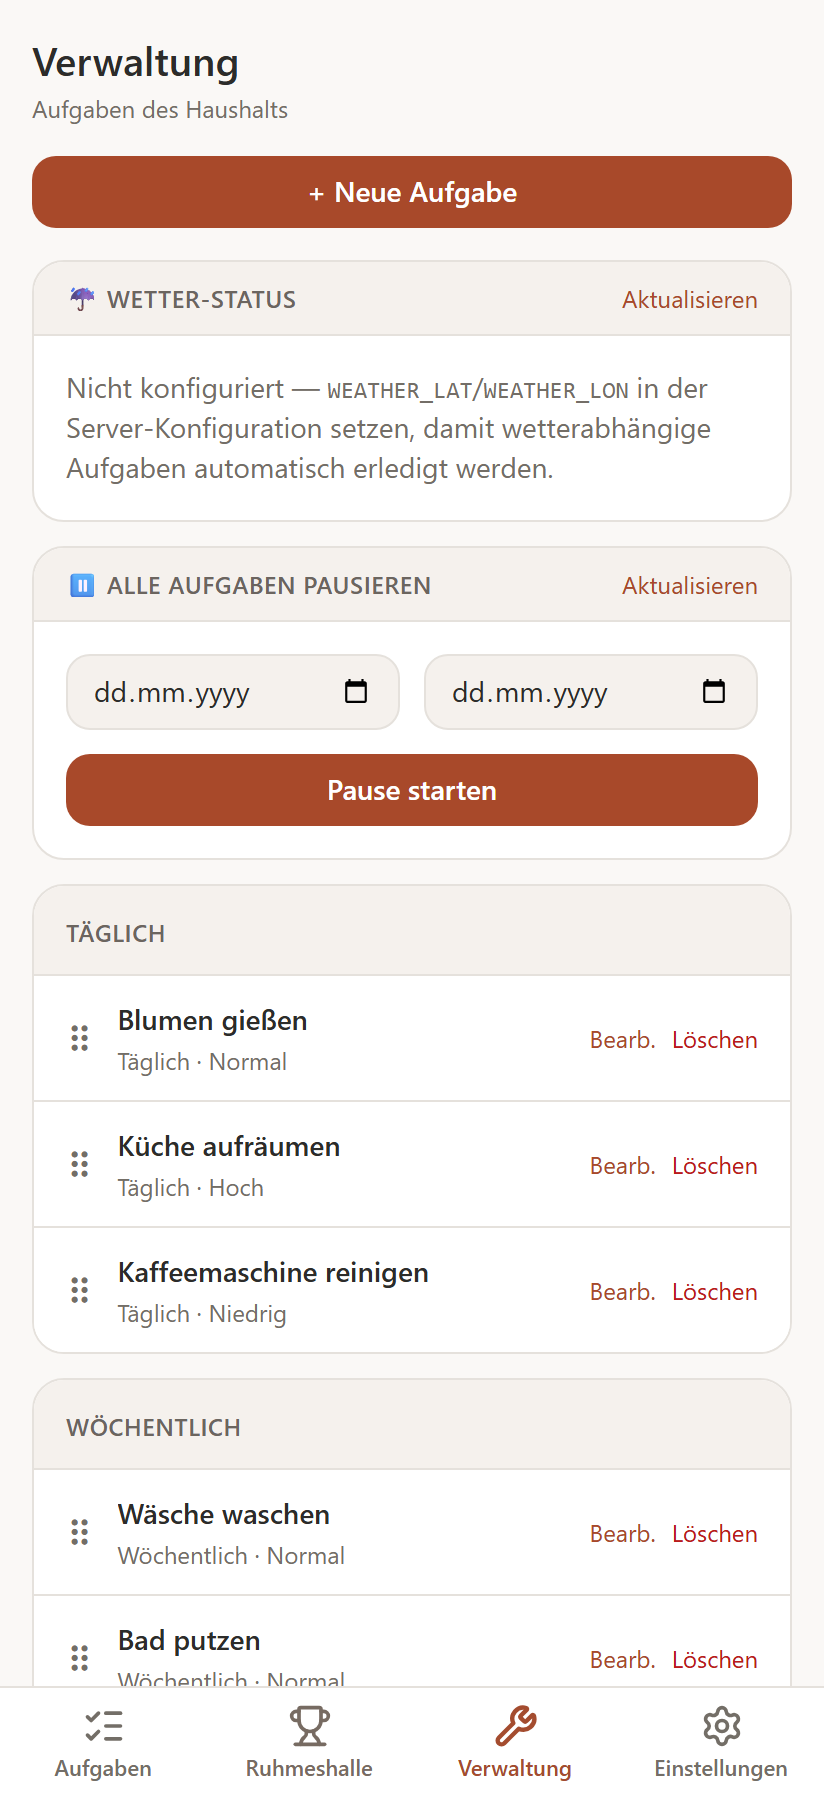
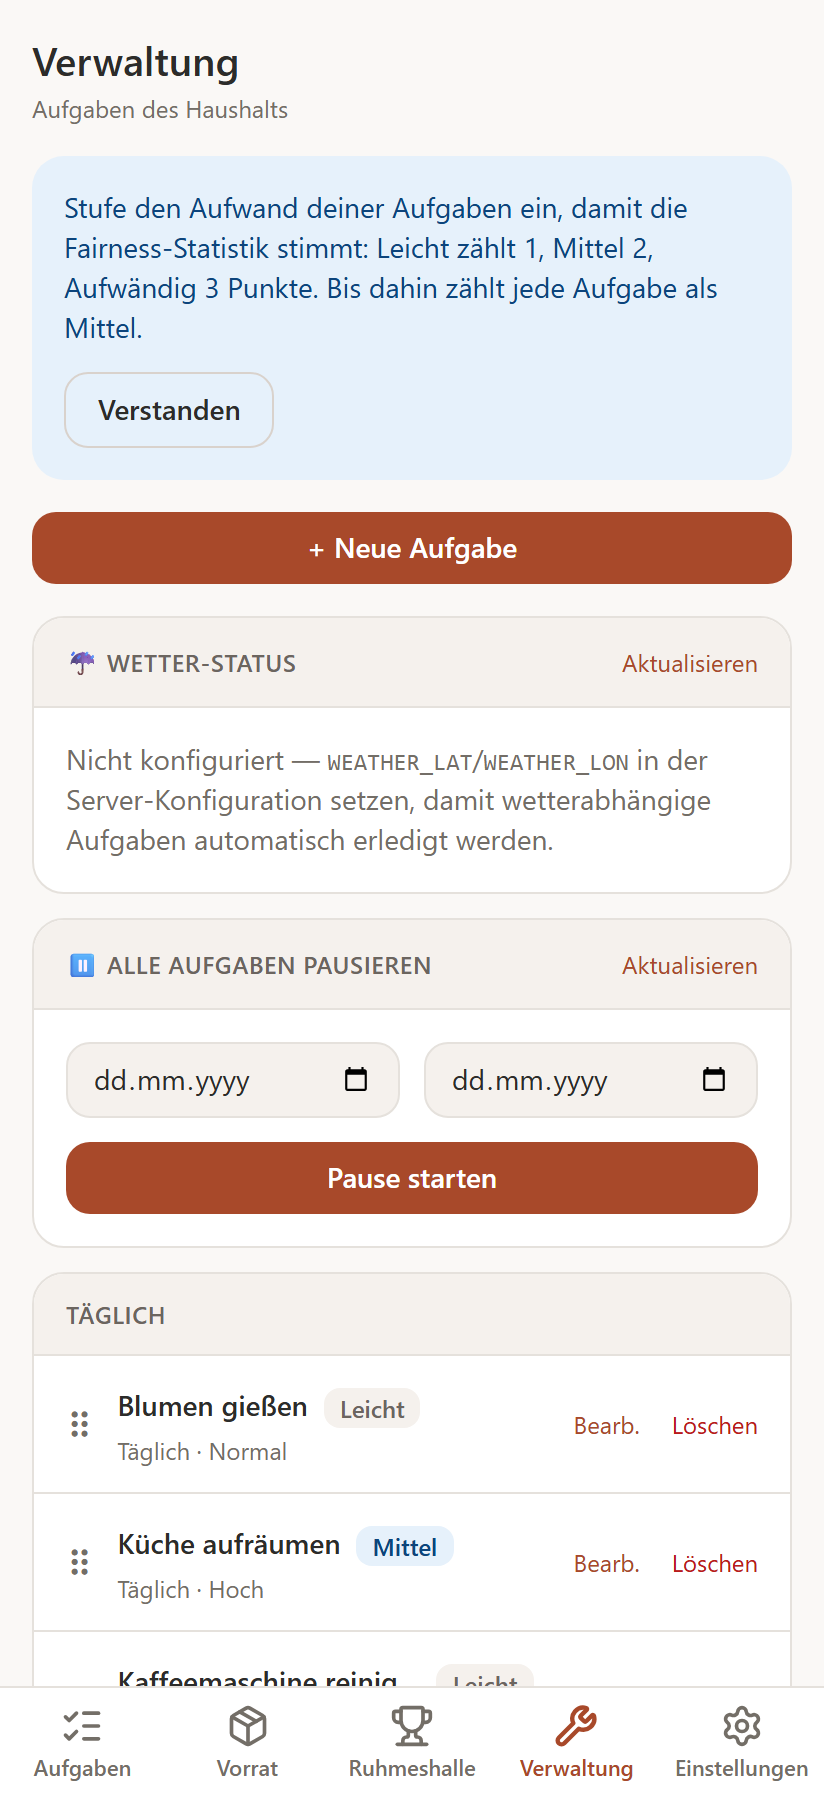
chore(screenshots): PWA-Screenshots neu aufgenommen, Vorrat und Einstellungen ergänzt
- Seed: Vorrat (3 Lagerorte), Aufwand je Aufgabe, Dienst-Eintrag,
  Fairness-Verlauf der letzten Wochen
- Aufnahme: zusätzlich storage.png und settings.png; Ruhmeshalle direkt
  geladen, damit die Startseite nicht mehr ins Bild ragt
- Konfiguration: deutsche Datumsfelder, Wetter- und Kalender-Abrufe aus
  einer lokalen .env neutralisiert, längeres Start-Timeout
- Manifest: Vorrat und Einstellungen als Install-Screenshots eingetragen

diff --git a/backend/scripts/screenshot-seed.js b/backend/scripts/screenshot-seed.js
@@ -18,6 +18,9 @@ async function main() {
   const now = new Date()
   const today = ymd(now)
   const inTwoDays = ymd(new Date(now.getTime() + 2 * 86400000))
+  // Beide sind schon länger dabei — sonst blendet die Fairness-Statistik sie
+  // als "erst seit Kurzem dabei" aus.
+  const joined = new Date(now.getTime() - 90 * 86400000)
 
   // Trophäen werden NICHT direkt gesetzt — der Scheduler (updateTrophyCache)
   // berechnet sie beim Start aus der TaskLog-Historie neu und würde gesetzte
@@ -31,6 +34,8 @@ async function main() {
       role: 'admin', // für den Verwaltungs-Screenshot
       approved: true,
       hasSeenSwipeTip: true,
+      createdAt: joined,
+      showFairness: true, // Fairness-Karte in der Ruhmeshalle
     },
   })
   const ben = await prisma.user.create({
@@ -41,25 +46,59 @@ async function main() {
       role: 'user',
       approved: true,
       hasSeenSwipeTip: true,
+      createdAt: joined,
     },
   })
 
+  // Zählweise nach Aufwand, wie in der Legende der Ruhmeshalle beschrieben.
+  await prisma.fairnessSettings.create({ data: { id: 'singleton', countMode: 'weighted' } })
+
   // Aufgaben in allen Typen; sortOrder bestimmt die Reihenfolge im Block.
   const daily = await Promise.all([
-    prisma.task.create({ data: { title: 'Blumen gießen', type: 'daily', priority: 'normal', sortOrder: 0 } }),
-    prisma.task.create({ data: { title: 'Küche aufräumen', type: 'daily', priority: 'high', sortOrder: 1 } }),
-    prisma.task.create({ data: { title: 'Kaffeemaschine reinigen', type: 'daily', priority: 'low', sortOrder: 2 } }),
+    prisma.task.create({ data: { title: 'Blumen gießen', type: 'daily', priority: 'normal', sortOrder: 0, difficulty: 1 } }),
+    prisma.task.create({ data: { title: 'Küche aufräumen', type: 'daily', priority: 'high', sortOrder: 1, difficulty: 2 } }),
+    prisma.task.create({ data: { title: 'Kaffeemaschine reinigen', type: 'daily', priority: 'low', sortOrder: 2, difficulty: 1 } }),
   ])
   const weekly = await Promise.all([
     prisma.task.create({ data: { title: 'Wäsche waschen', type: 'weekly', priority: 'normal', sortOrder: 0 } }),
-    prisma.task.create({ data: { title: 'Bad putzen', type: 'weekly', priority: 'normal', sortOrder: 1 } }),
-    prisma.task.create({ data: { title: 'Müll rausbringen', type: 'weekly', priority: 'normal', sortOrder: 2 } }),
+    prisma.task.create({ data: { title: 'Bad putzen', type: 'weekly', priority: 'normal', sortOrder: 1, difficulty: 3 } }),
+    prisma.task.create({ data: { title: 'Müll rausbringen', type: 'weekly', priority: 'normal', sortOrder: 2, difficulty: 1 } }),
   ])
   await prisma.task.create({ data: { title: 'Fenster putzen', type: 'monthly', priority: 'normal', sortOrder: 0 } })
   // Abfallkalender-Termin (bevorstehend) — erscheint im Einmalig-Block.
   await prisma.task.create({
     data: { title: 'Papiertonne rausstellen', type: 'once', dueDate: inTwoDays, isAutoGenerated: true, isActive: true },
   })
+
+  // Dienstplan-Termin (Kennzeichen "Dienst" im Einmalig-Block).
+  await prisma.task.create({
+    data: { title: 'Hühner: Futter hochziehen', type: 'once', dueDate: today, isAutoGenerated: true, autoSource: 'duty', isActive: true },
+  })
+
+  // Vorrat: drei Lagerorte, ein paar Kategorien und Artikel. Einige liegen
+  // unter der Mindestmenge und füllen so die Einkaufsliste.
+  const storage = [
+    ['Keller', [
+      ['Tiefkühl', [['Fischstäbchen', 0, 'Packungen'], ['Lachs', 4, 'Packungen'], ['Kroketten', 2, 'Beutel'], ['Croissants', 1, 'Packungen'], ['Röstipommes', 0, 'Beutel']]],
+      ['Getränke', [['Apfelschorle', 0, 'Kästen'], ['Wasser', 3, 'Kästen']]],
+    ]],
+    ['Vorratsschrank', [
+      ['Konserven', [['Tomaten', 5, 'Dosen'], ['Mais', 2, 'Dosen']]],
+      ['Nudeln & Reis', [['Spaghetti', 3, 'Packungen'], ['Reis', 0, 'Packungen']]],
+    ]],
+    ['Kühlschrank', [
+      ['Milchprodukte', [['Milch', 0, 'Liter'], ['Butter', 2, 'Stück'], ['Joghurt', 4, 'Becher']]],
+    ]],
+  ]
+  for (const [li, [locName, cats]] of storage.entries()) {
+    const location = await prisma.storageLocation.create({ data: { name: locName, sortOrder: li } })
+    for (const [ci, [catName, items]] of cats.entries()) {
+      const category = await prisma.storageCategory.create({ data: { locationId: location.id, name: catName, sortOrder: ci } })
+      for (const [ii, [name, quantity, unit]] of items.entries()) {
+        await prisma.storageItem.create({ data: { name, quantity, unit, locationId: location.id, categoryId: category.id, sortOrder: ii } })
+      }
+    }
+  }
 
   // Ein paar heutige Erledigungen: füllt Statistik (heute/Woche/Monat),
   // Verlauf und gibt der Ruhmeshalle Inhalt. Erzeugt jeweils TaskCompletion
@@ -119,8 +158,13 @@ async function main() {
   await pastLogs(ben, 5, 2);   await pastLogs(anna, 5, 1)  // → Tag: Ben
   await pastLogs(anna, 10, 3); await pastLogs(ben, 10, 1)  // letzte Woche → Anna
   await pastLogs(anna, 40, 4); await pastLogs(ben, 40, 1)  // letzter Monat → Anna
+  // Füllt die Fairness-Statistik (letzte 30 Tage, Wochenbalken) mit einer
+  // halbwegs ausgewogenen Verteilung.
+  for (const [daysAgo, a, b] of [[8, 2, 2], [12, 3, 2], [15, 2, 3], [17, 2, 1], [20, 3, 2], [23, 1, 2], [26, 2, 2]]) {
+    await pastLogs(anna, daysAgo, a); await pastLogs(ben, daysAgo, b)
+  }
 
-  console.log('screenshot-seed: 2 Nutzer + Aufgaben + Erledigungen erstellt')
+  console.log('screenshot-seed: 2 Nutzer + Aufgaben + Vorrat + Erledigungen erstellt')
 }
 
 main()

diff --git a/frontend/e2e-screenshots/capture.spec.js b/frontend/e2e-screenshots/capture.spec.js
@@ -3,7 +3,7 @@ import path from 'path'
 import { fileURLToPath } from 'url'
 import { login } from '../e2e/helpers.js'
 
-// Nimmt die vier PWA-Install-Screenshots (manifest.screenshots) im neuen
+// Nimmt die sechs PWA-Install-Screenshots (manifest.screenshots) im neuen
 // Design auf und legt sie in public/screenshots ab. Kein Test im engeren Sinn,
 // sondern ein reproduzierbarer Aufnahme-Lauf — daher eigenes testDir +
 // eigene Config (playwright.screenshots.config.js), außerhalb des CI-E2E-Laufs.
@@ -33,17 +33,37 @@ test('Screenshots aufnehmen', async ({ page }) => {
   await expect(page.locator('[data-testid="nav-home"]')).toHaveAttribute('aria-current', 'page')
   await page.screenshot({ path: path.join(outDir, 'home.png') })
 
-  // 3) Ruhmeshalle
+  // 3) Vorrat
+  await page.locator('[data-testid="nav-storage"]').click()
+  await expect(page).toHaveURL('/storage')
+  await expect(page.getByRole('heading', { name: 'Vorrat' })).toBeVisible()
+  await expect(page.getByText('Fischstäbchen').first()).toBeVisible()
+  await page.screenshot({ path: path.join(outDir, 'storage.png') })
+  await page.locator('[data-testid="nav-home"]').click()
+  await expect(page.locator('[data-testid="nav-home"]')).toHaveAttribute('aria-current', 'page')
+
+  // 4) Ruhmeshalle
   await page.locator('[data-testid="nav-hall-of-fame"]').click()
   await expect(page.getByRole('heading', { name: 'Ruhmeshalle' })).toBeVisible()
   await expect(page.getByText('Anna').first()).toBeVisible()
   await expect(page.locator('[data-testid="nav-hall-of-fame"]')).toHaveAttribute('aria-current', 'page')
+  // Direkt laden statt nur wischen: nach dem Tab-Wechsel bleibt das Karussell
+  // sonst um einige Pixel versetzt stehen (linker Rand der Startseite im Bild).
+  await page.goto('/hall-of-fame')
+  await expect(page.getByRole('heading', { name: 'Ruhmeshalle' })).toBeVisible()
+  await expect(page.getByText('Anna').first()).toBeVisible()
   await page.waitForTimeout(400) // Carousel-Position settlen lassen
   await page.screenshot({ path: path.join(outDir, 'halloffame.png') })
 
-  // 4) Verwaltung (Anna ist Admin)
+  // 5) Verwaltung (Anna ist Admin)
   await page.locator('[data-testid="nav-admin"]').click()
   await expect(page).toHaveURL('/admin')
   await expect(page.getByRole('button', { name: '+ Neue Aufgabe' })).toBeVisible()
   await page.screenshot({ path: path.join(outDir, 'admin.png') })
+
+  // 6) Einstellungen
+  await page.locator('[data-testid="nav-settings"]').click()
+  await expect(page).toHaveURL('/settings')
+  await expect(page.getByRole('heading', { name: 'Einstellungen' })).toBeVisible()
+  await page.screenshot({ path: path.join(outDir, 'settings.png') })
 })

diff --git a/frontend/playwright.screenshots.config.js b/frontend/playwright.screenshots.config.js
@@ -16,6 +16,14 @@ const backendEnv = {
   NODE_ENV: 'test',
   FRONTEND_URL: 'http://localhost:4173',
   PORT: '3101',
+  // Werte aus einer lokalen backend/.env neutralisieren (dotenv überschreibt
+  // gesetzte Variablen nicht): keine Abrufe echter Kalender-/Wetterdaten und
+  // keine echten Inhalte in den Aufnahmen.
+  WASTE_ICAL_URL: '',
+  DUTY_ICAL_URL: '',
+  DUTY_DONE_URL: '',
+  WEATHER_LAT: '',
+  WEATHER_LON: '',
   // Wegwerf-Dummy-Werte, s. playwright.config.js — Push/Mail werden hier
   // nicht ausgeübt.
   VAPID_EMAIL: 'mailto:screenshot@example.com',
@@ -36,6 +44,11 @@ export default defineConfig({
     // Schmales Telefon-Format für die "narrow"-Screenshots im Manifest.
     viewport: { width: 412, height: 900 },
     deviceScaleFactor: 2,
+    // Deutsche Darstellung der Datumsfelder (tt.mm.jjjj statt mm/dd/yyyy).
+    locale: 'de-DE',
+    timezoneId: 'Europe/Berlin',
+    // Die Platzhalter leerer Datumsfelder folgen der Browser-Sprache, nicht `locale`.
+    launchOptions: { args: ['--lang=de-DE'] },
     // Embla liest prefers-reduced-motion und macht das scrollTo dann instant —
     // sonst würde der Ruhmeshalle-Screenshot mitten in der Wisch-Animation
     // aufgenommen (halb Home, halb Ruhmeshalle).
@@ -48,7 +61,8 @@ export default defineConfig({
       port: 3101,
       env: backendEnv,
       reuseExistingServer: false,
-      timeout: 30_000,
+      // Reset + Seed brauchen lokal allein rund 10 s, parallel zum Frontend-Build mehr.
+      timeout: 120_000,
     },
     {
       command: 'npm run build && npm run preview -- --port 4173',

diff --git a/frontend/vite.config.js b/frontend/vite.config.js
@@ -45,8 +45,10 @@ export default defineConfig({
         screenshots: [
           { src: '/screenshots/login.png',     type: 'image/png', form_factor: 'narrow', label: 'Anmeldung' },
           { src: '/screenshots/home.png',      type: 'image/png', form_factor: 'narrow', label: 'Aufgaben-Übersicht' },
+          { src: '/screenshots/storage.png',   type: 'image/png', form_factor: 'narrow', label: 'Vorrat' },
           { src: '/screenshots/admin.png',     type: 'image/png', form_factor: 'narrow', label: 'Verwaltung' },
           { src: '/screenshots/halloffame.png',type: 'image/png', form_factor: 'narrow', label: 'Ruhmeshalle' },
+          { src: '/screenshots/settings.png',  type: 'image/png', form_factor: 'narrow', label: 'Einstellungen' },
         ],
       },
       injectManifest: {
